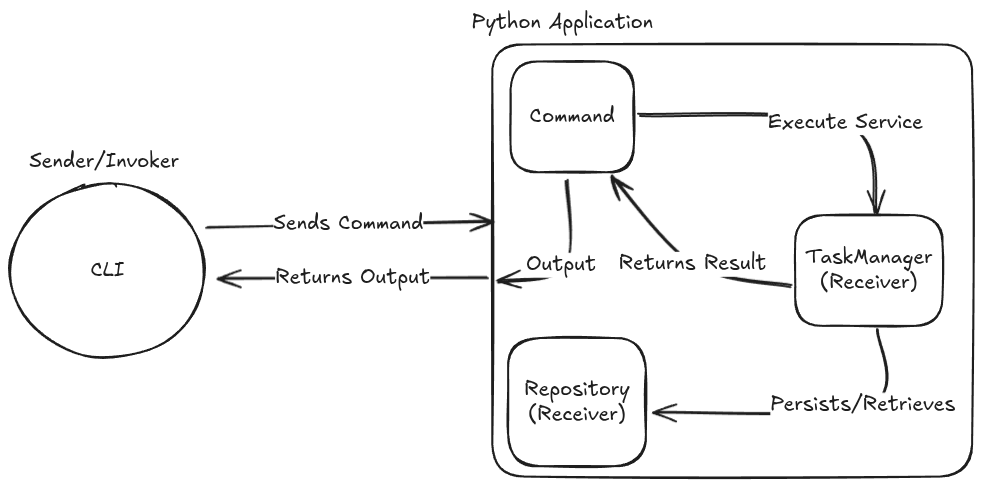
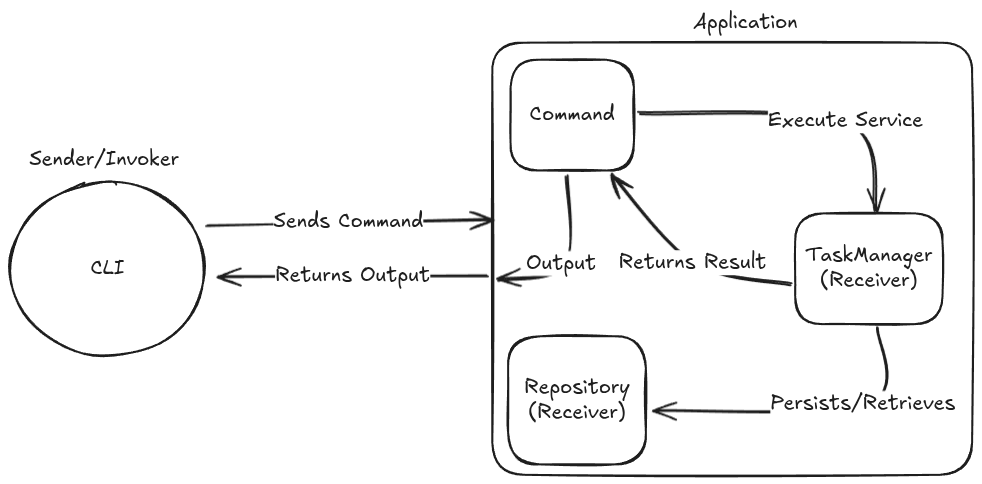
docs: minor changes in text, architechture labels, and major change to data model to follow mermaid UML standart

diff --git a/docs/5. data-model.md b/docs/5. data-model.md
@@ -2,56 +2,65 @@
 
 ```mermaid
 classDiagram
+    class TaskStatus {
+      <<enumeration>>
+      todo
+      in-progress
+      done
+    }
+
     class Task {
         - id: int
         - description: string
-        - status: ['todo','in-progress','done']
+        - status: TaskStatus
         - createdAt: datetime
         - updatedAt: datetime
     }
 
     class TaskManager {
         - repository: TaskRepository
-        + create_task(description: string)
-        + update_task(task: Task, new_description: string | None, new_status: string | None)
-        + delete_task(id: int)
-        + list_tasks(filter: string | None)
+        + create_task(description: string): void
+        + update_task(task: Task, new_description: string?, new_status: string?): void
+        + delete_task(id: int): void
+        + list_tasks(filter: string?): void
     }
 
     class TaskRepository {
         - filename: string
-        + save(task: Task)
-        + delete(id: int)
-        + find(id: int)
-        + retrieve(status: string | None)
+        + save(task: Task): void
+        + delete(id: int): void
+        + find(id: int): Task
+        + retrieve(status: string?): Task[]
     }
 
     class Command {
+        <<abstract>>
         - task_manager: TaskManager
-        + execute()
+        + execute(): void*
     }
 
     class AddTaskCommand {
         - description: string
-        + execute()
+        + execute(): void
     }
 
     class UpdateTaskCommand {
-        - description: string | None
-        - status: string | None
-        + execute()
+        - description: string?
+        - status: string?
+        + execute(): void
     }
     
     class DeleteTaskCommand {
         - id: int
-        + execute()
+        + execute(): void
     }
 
     class ListTaskCommand {
-        - filter: string | None
-        + execute()
+        - filter: string?
+        + execute(): void
     } 
 
+    Task --> TaskStatus : has
     TaskManager --> TaskRepository : uses
     TaskManager ..> Task : manipulates
     TaskRepository ..> Task : persists
